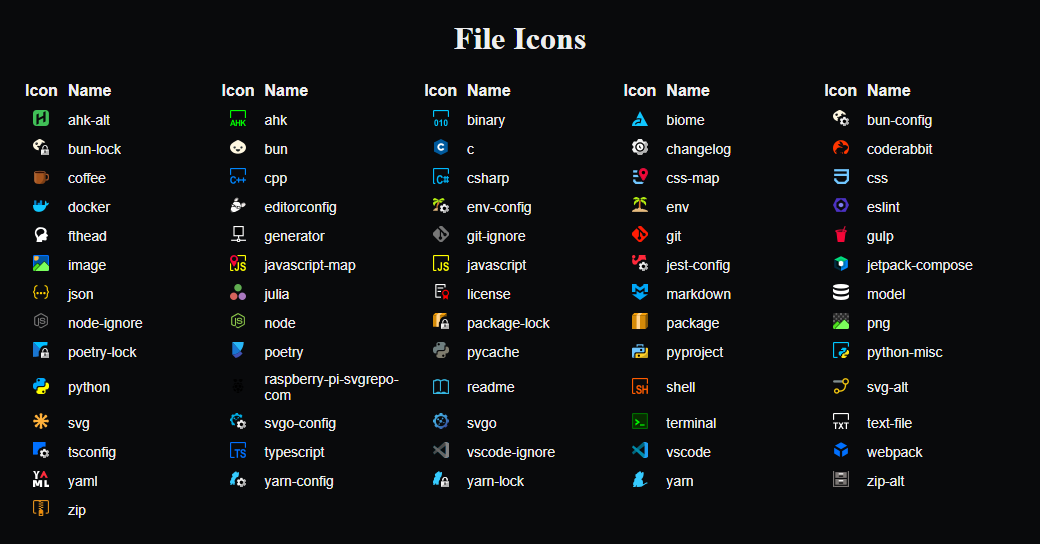
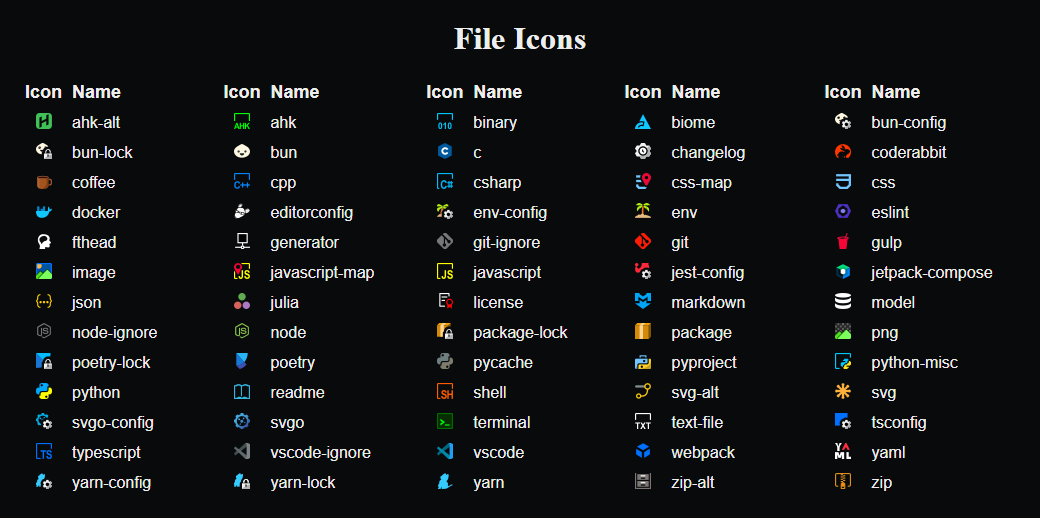
.

diff --git a/src/scripts/js/generate___preview-images.js b/src/scripts/js/generate___preview-images.js
@@ -180,6 +180,10 @@ function generateHTMLContent(iconType, iconsDir, files) {
                 <link rel="preconnect" href="https://fonts.gstatic.com" crossorigin>
                 <link href="https://fonts.googleapis.com/css2?family=Roboto:ital,wght@0,100;0,300;0,400;0,500;0,700;0,900;1,100;1,300;1,400;1,500;1,700;1,900&display=swap" rel="stylesheet">link href="https://fonts.googleapis.com/css2?family=Roboto:wght@400;700&display=swap" rel="stylesheet">
 
+                <link rel="preconnect" href="https://fonts.googleapis.com">
+                <link rel="preconnect" href="https://fonts.gstatic.com" crossorigin>
+                <link href="https://fonts.googleapis.com/css2?family=Hind:wght@300;400;500;600;700&display=swap" rel="stylesheet">
+                
                 body{
                     background-color: #090a0c;
                     margin: 20px;
@@ -210,14 +214,14 @@ function generateHTMLContent(iconType, iconsDir, files) {
                 }
 
                 th {
-                    font-size: 16px;
-                    font-family: "Roboto",Arial, Helvetica, sans-serif;
+                    font-size: 18px;
+                    font-family: "Hind", "Roboto",Arial, Helvetica, sans-serif;
                     padding: 5px;
                 }
 
                 td {
-                    font-size: 14px;
-                    font-family: "Roboto",Arial, Helvetica, sans-serif;
+                    font-size: 16px;
+                    font-family: "Hind", "Roboto",Arial, Helvetica, sans-serif;
                     padding: 5px;
                 }
 

diff --git a/gulpfile.js b/gulpfile.js
@@ -54,6 +54,7 @@ gulp.task('optimize___assets-icons', (done) => {
 gulp.task('apex_optimize-generate-pack', gulp.series(
     'optimize___assets-icons',
     'generate___icon-manifests',
+    'generate___preview-images',
     'generate___package-json'
 ));
 

diff --git a/README.md b/README.md
@@ -19,7 +19,7 @@
 
 
 
-<img src="./assets/images/File_icons_preview.png" alt="file icons">
+<img src="https://github.com/FocusTorn/torn-focus-ui/blob/master/assets/images/File_icons_preview.png" alt="file icons">
 
 &nbsp;
 
